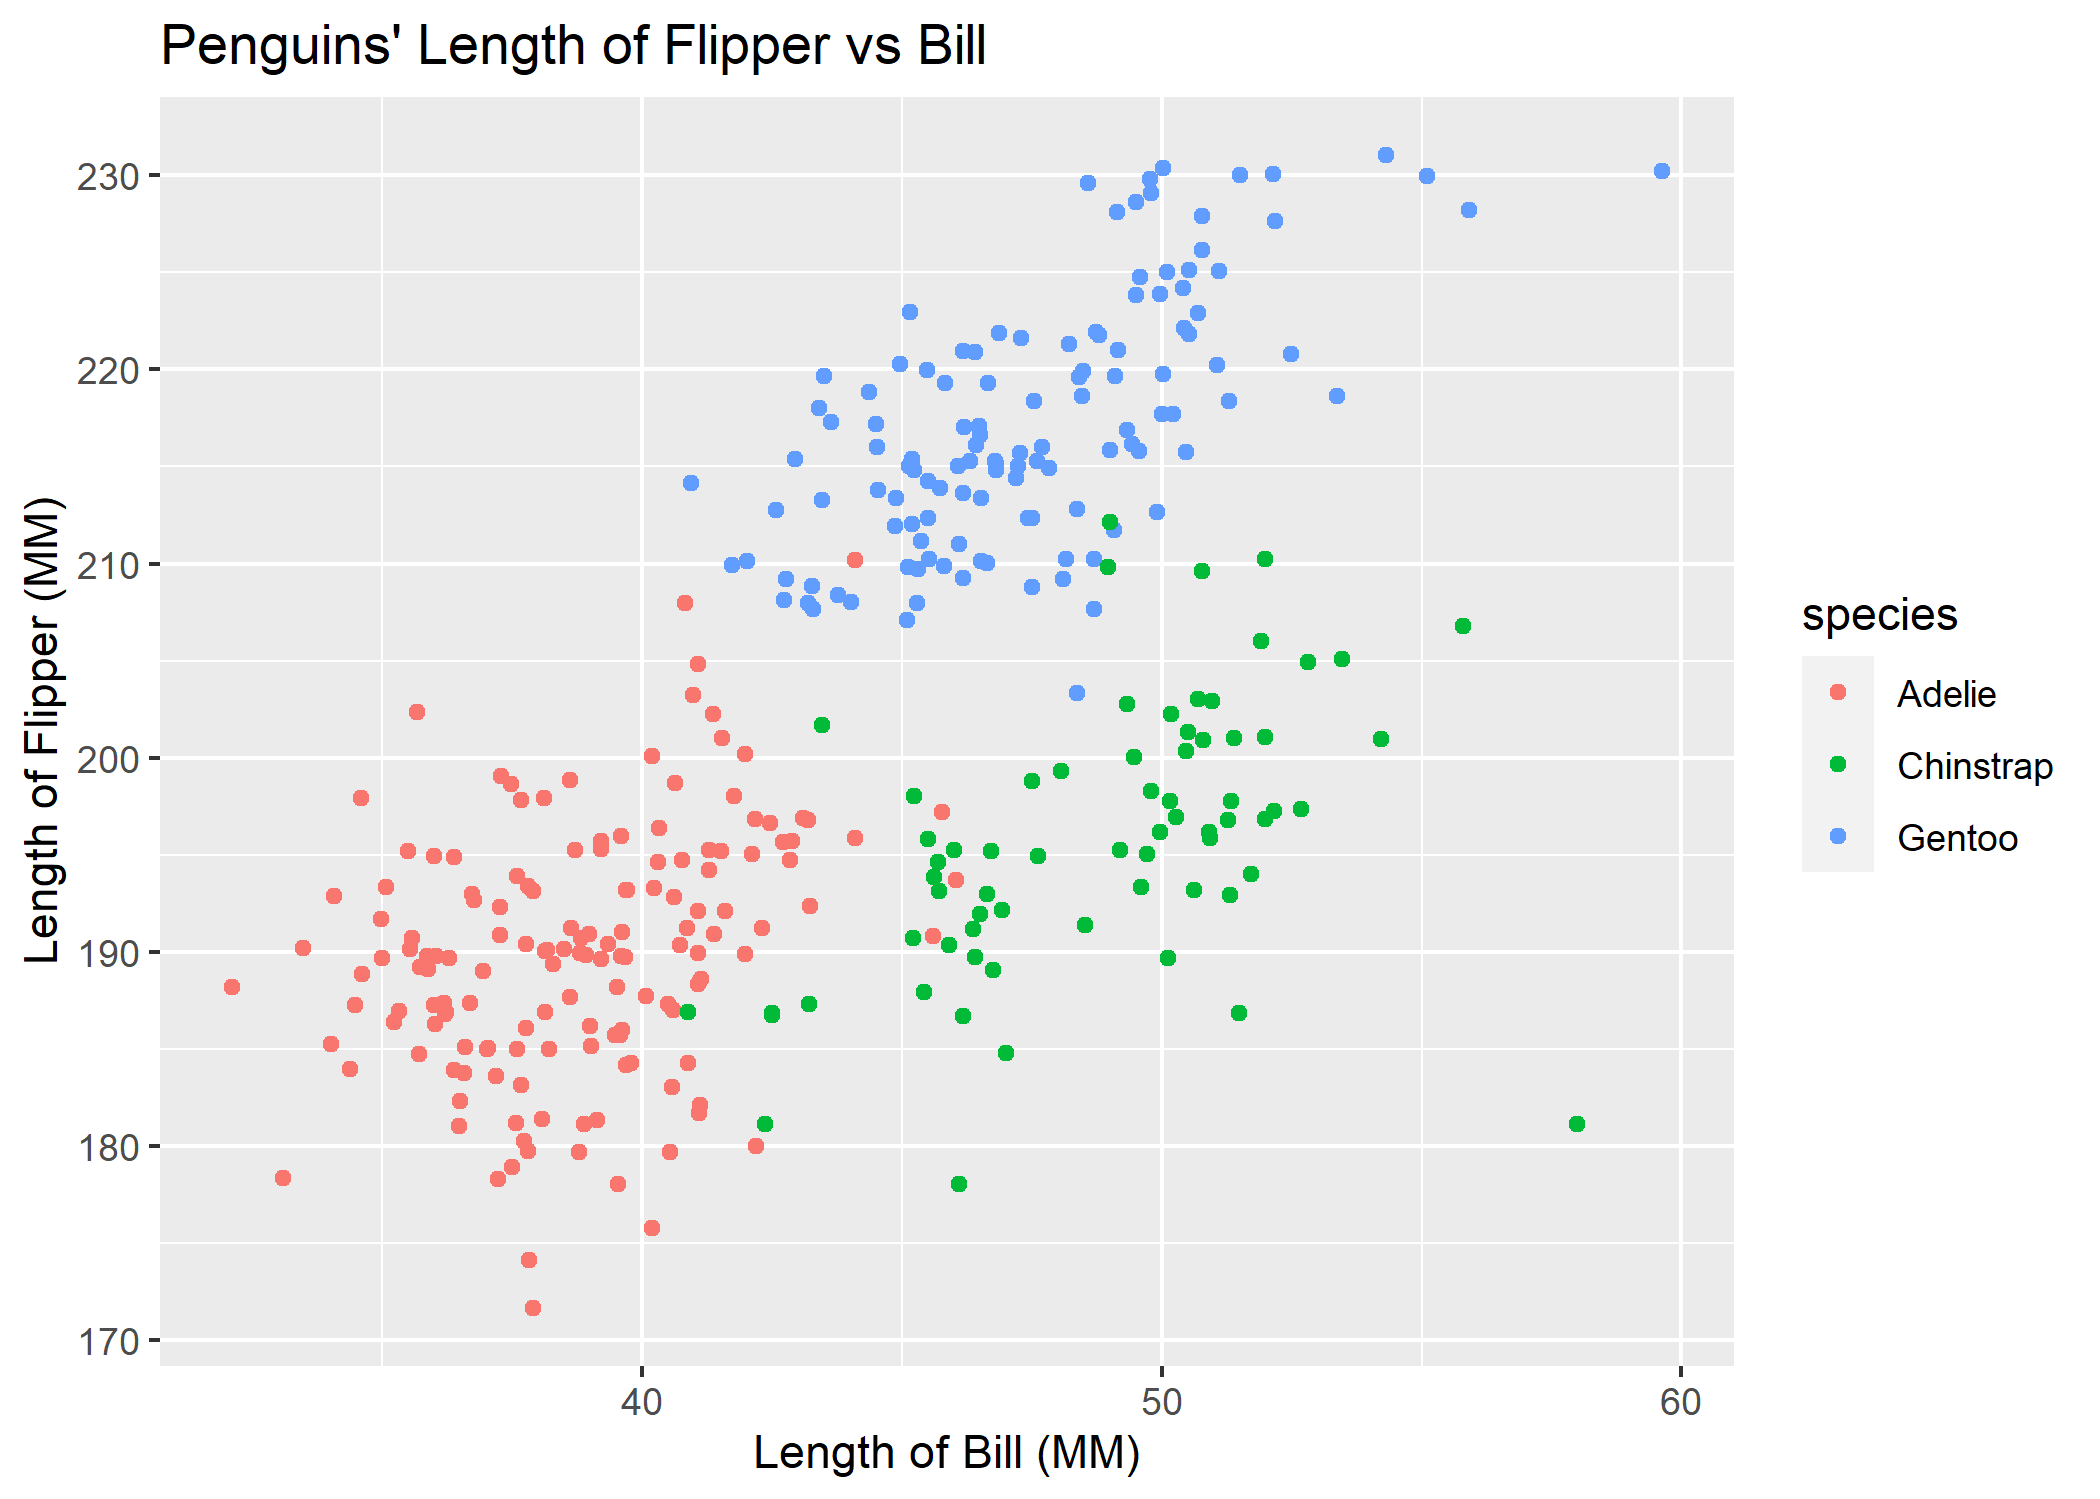
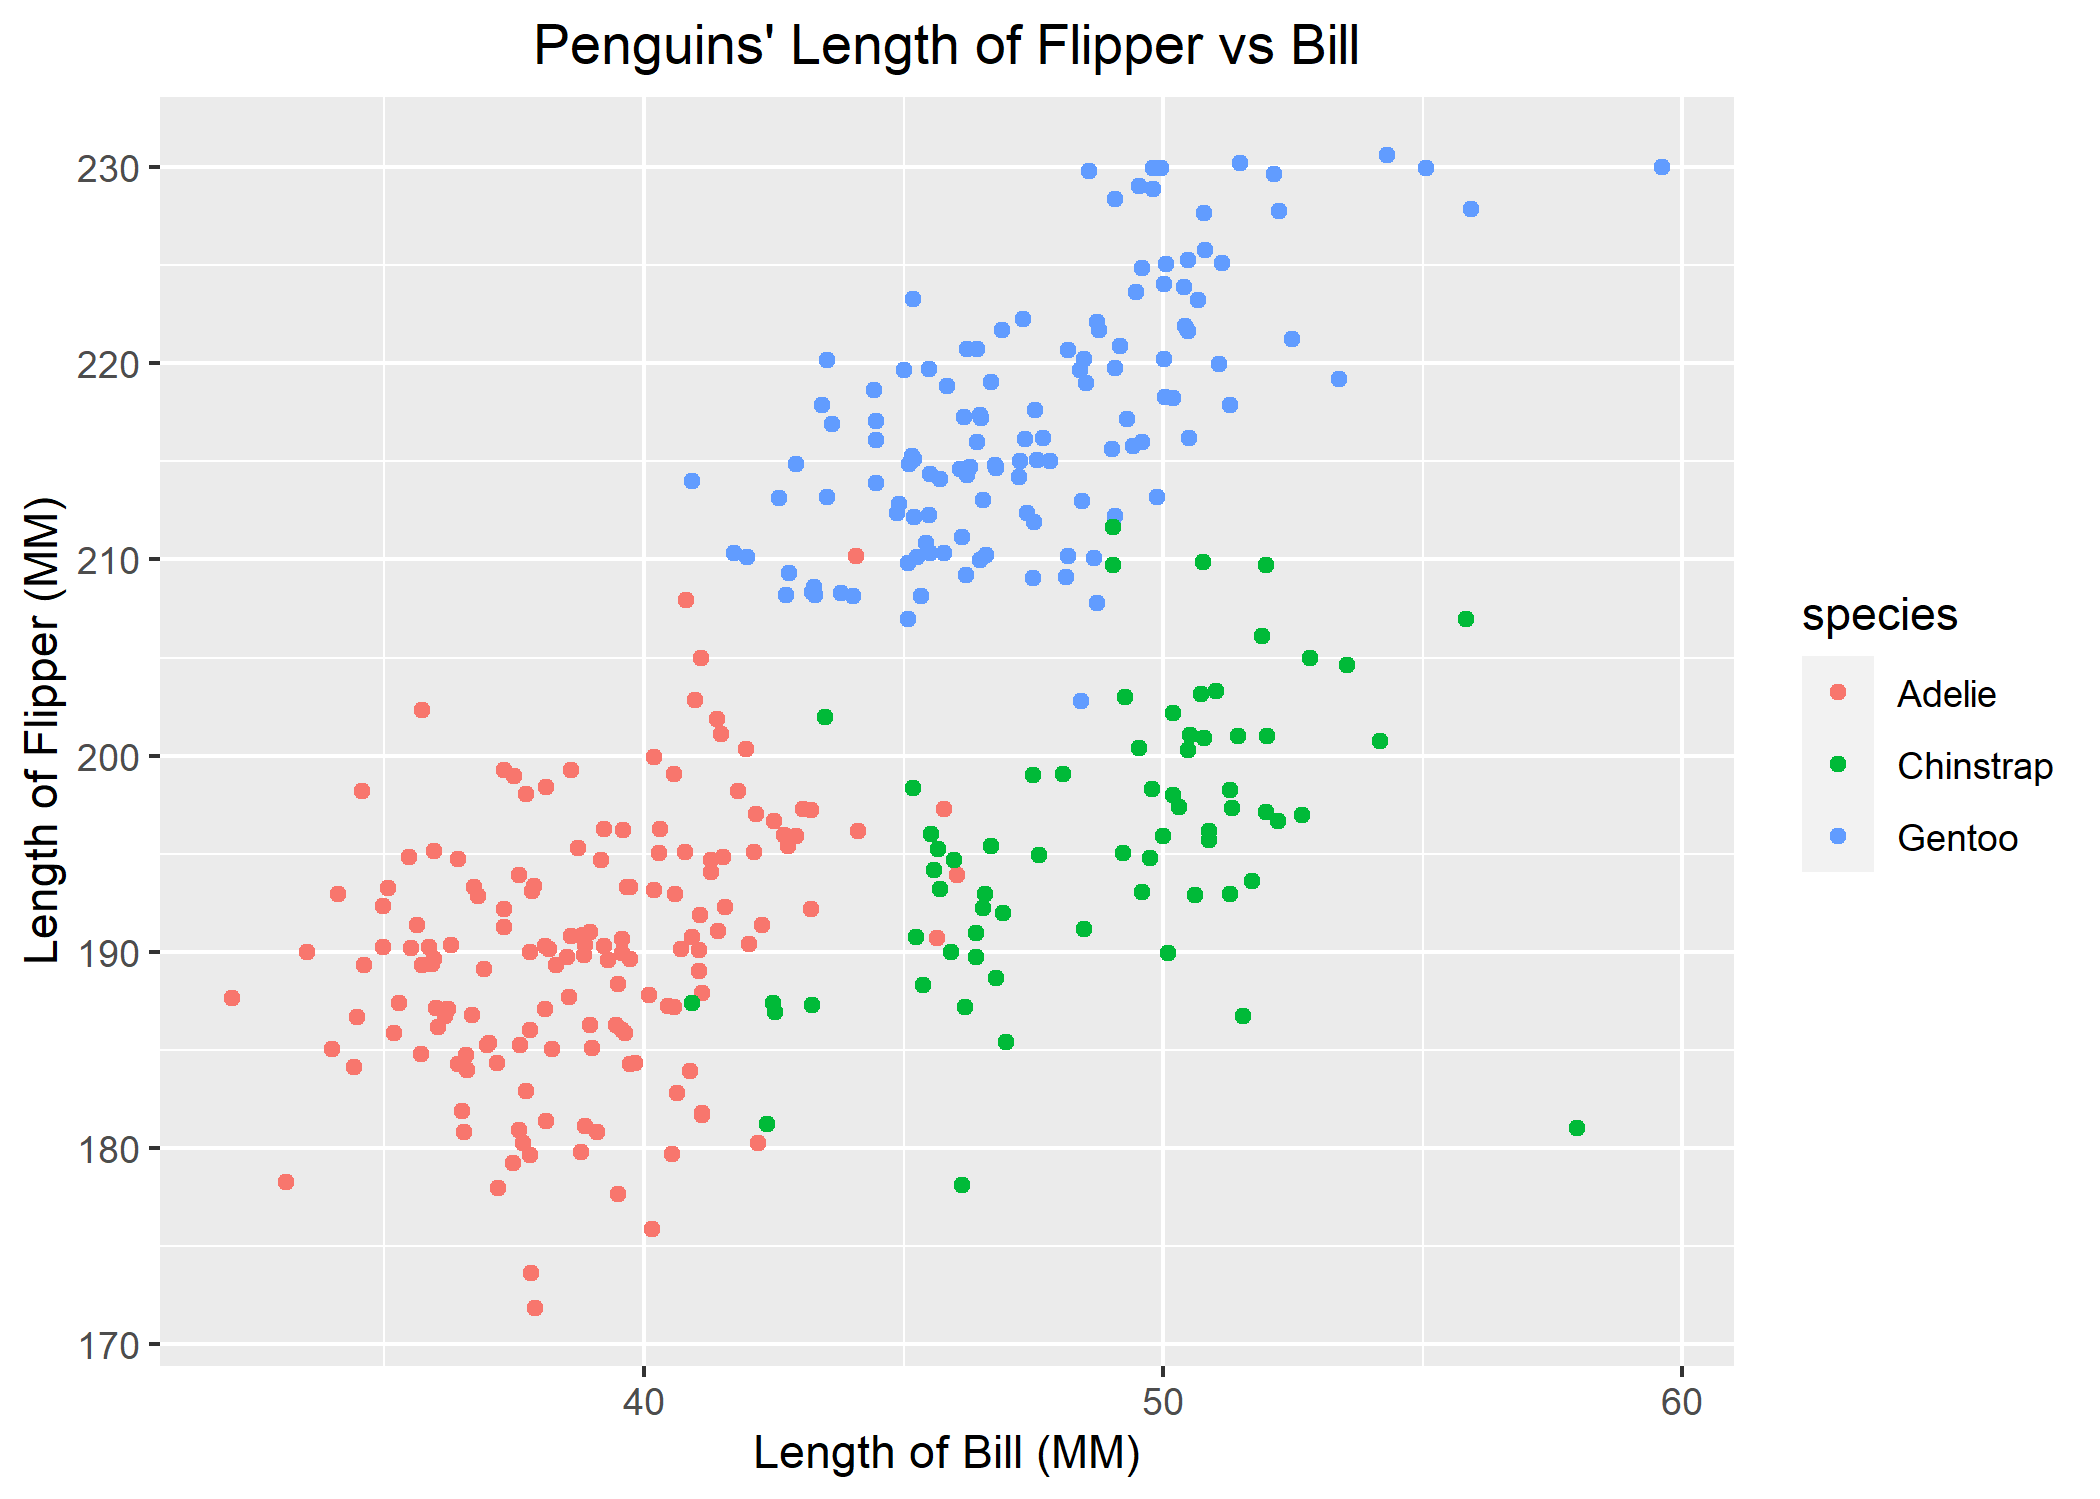
added title position argument

diff --git a/Result/p8105_hw1_zl2974.md b/Result/p8105_hw1_zl2974.md
@@ -18,8 +18,8 @@ str(df_P1)
 ```
 
     ## tibble [10 x 4] (S3: tbl_df/tbl/data.frame)
-    ##  $ samp      : num [1:10] 2.234 1.231 -2.723 -0.986 -1.021 ...
-    ##  $ samp_grt_0: logi [1:10] TRUE TRUE FALSE FALSE FALSE TRUE ...
+    ##  $ samp      : num [1:10] 0.822 2.64 0.598 2.223 -0.428 ...
+    ##  $ samp_grt_0: logi [1:10] TRUE TRUE TRUE TRUE FALSE TRUE ...
     ##  $ char      : chr [1:10] "t" "h" "e" "s" ...
     ##  $ fac       : Factor w/ 3 levels "a","b","c": 1 2 3 1 2 3 1 3 2 1
 
@@ -36,16 +36,16 @@ df_P1
     ## # A tibble: 10 x 7
     ##      samp samp_grt_0 char  fac   in_samp_grt_0 fac_samp_grt_0 result
     ##     <dbl> <lgl>      <chr> <fct>         <int> <fct>           <dbl>
-    ##  1  2.23  TRUE       t     a                 1 TRUE            4.47 
-    ##  2  1.23  TRUE       h     b                 1 TRUE            2.46 
-    ##  3 -2.72  FALSE      e     c                 0 FALSE          -2.72 
-    ##  4 -0.986 FALSE      s     a                 0 FALSE          -0.986
-    ##  5 -1.02  FALSE      e     b                 0 FALSE          -1.02 
-    ##  6  1.59  TRUE       r     c                 1 TRUE            3.17 
-    ##  7  0.533 TRUE       e     a                 1 TRUE            1.07 
-    ##  8  1.41  TRUE       t     c                 1 TRUE            2.82 
-    ##  9 -1.02  FALSE      e     b                 0 FALSE          -1.02 
-    ## 10 -0.733 FALSE      n     a                 0 FALSE          -0.733
+    ##  1  0.822 TRUE       t     a                 1 TRUE            1.64 
+    ##  2  2.64  TRUE       h     b                 1 TRUE            5.28 
+    ##  3  0.598 TRUE       e     c                 1 TRUE            1.20 
+    ##  4  2.22  TRUE       s     a                 1 TRUE            4.45 
+    ##  5 -0.428 FALSE      e     b                 0 FALSE          -0.428
+    ##  6  0.947 TRUE       r     c                 1 TRUE            1.89 
+    ##  7 -0.938 FALSE      e     a                 0 FALSE          -0.938
+    ##  8 -1.05  FALSE      t     c                 0 FALSE          -1.05 
+    ##  9 -0.373 FALSE      e     b                 0 FALSE          -0.373
+    ## 10 -0.442 FALSE      n     a                 0 FALSE          -0.442
 
 # Solution to Problem 2
 
@@ -125,7 +125,8 @@ plt_flivbil <- ggplot(
     y = "Length of Flipper (MM)",
     x = "Length of Bill (MM)"
   )+
-  ggtitle("Penguins' Length of Flipper vs Bill")
+  ggtitle("Penguins' Length of Flipper vs Bill")+
+  theme(plot.title = element_text(hjust = 0.5))
 ggsave(plot = plt_flivbil,
 filename = paste(here::here(),"Result/p8105_hw1_zl2974_flipper_v_bill.png",sep="/")
 )
